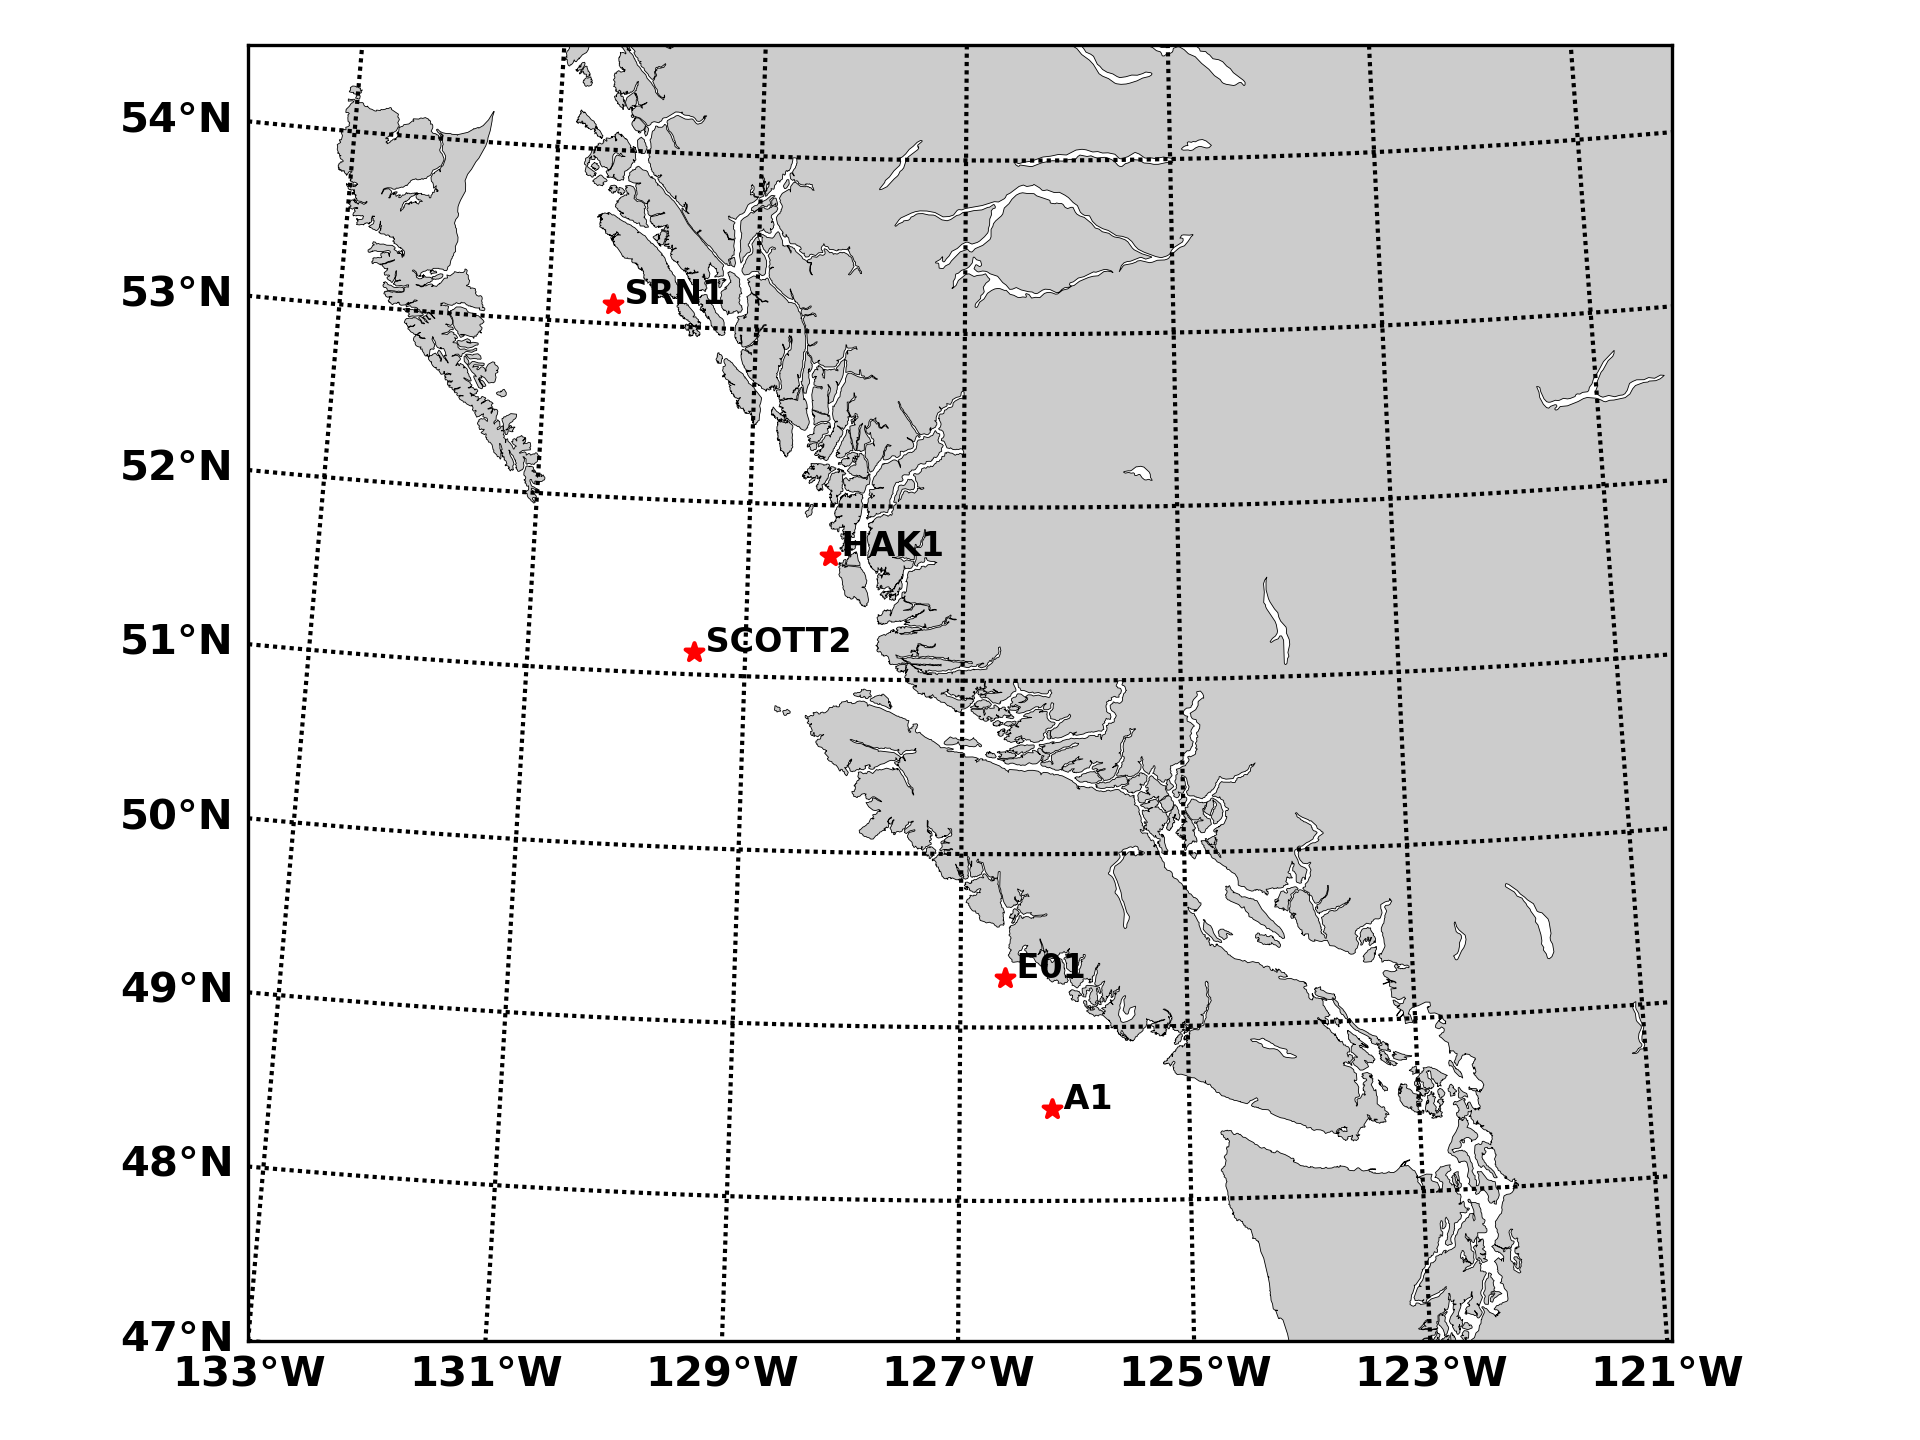
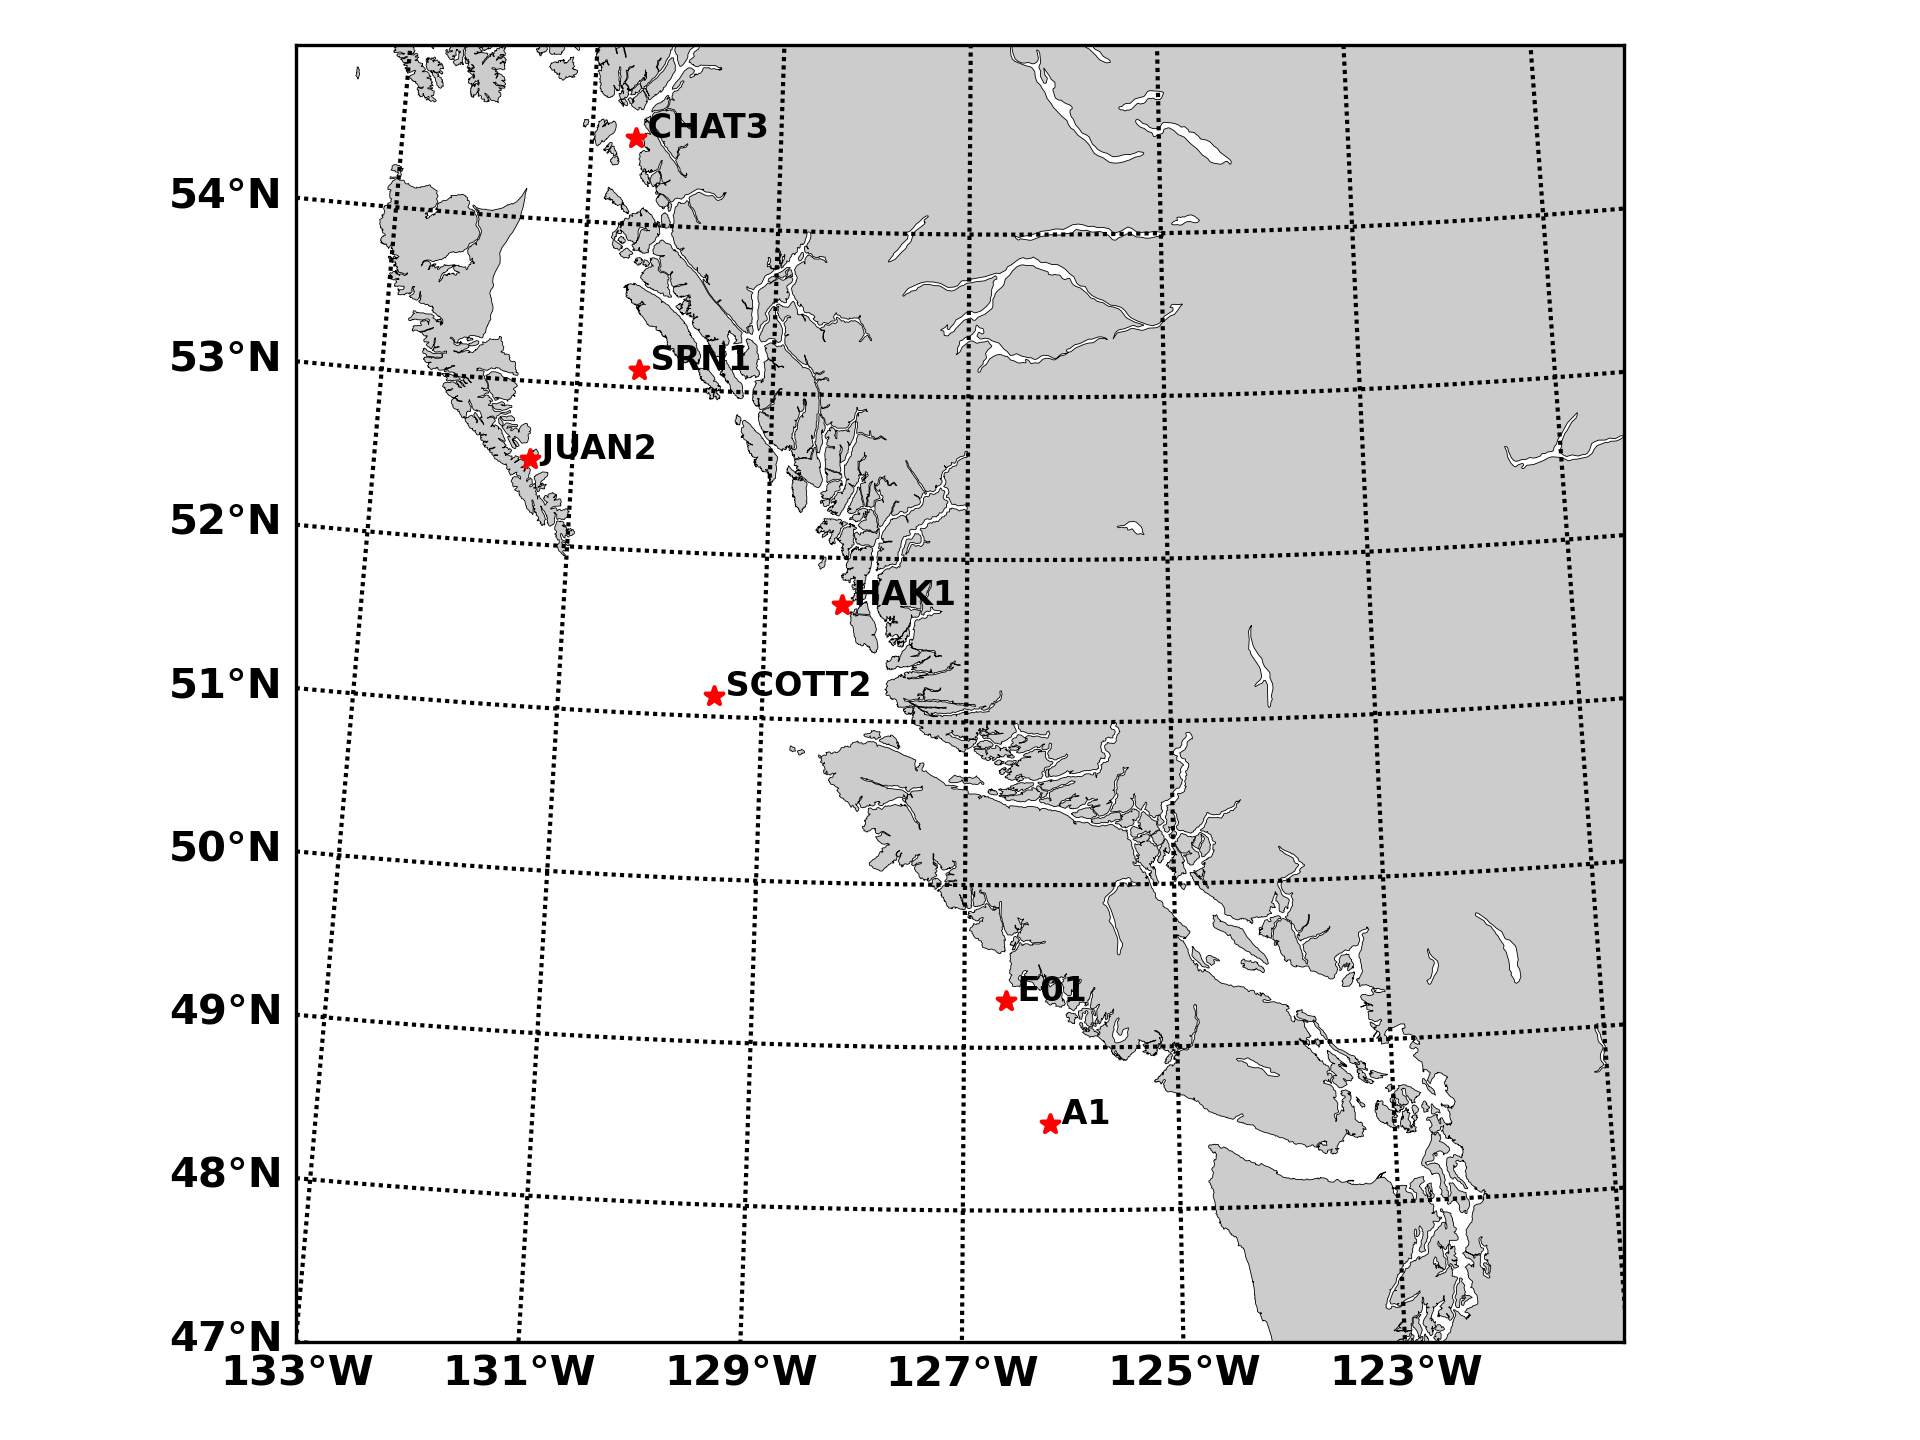
add chat3 and juan2 to mooring map

diff --git a/_site/scripts/map_mooring_locations.py b/_site/scripts/map_mooring_locations.py
@@ -17,7 +17,7 @@ coordinates_df = pd.read_csv(nominal_coordinates_file, index_col=[0])
 fig, ax = plt.subplots()
 
 # Set up basemap
-left_lon, bot_lat, right_lon, top_lat = [-133, 47, -120, 54.5]
+left_lon, bot_lat, right_lon, top_lat = [-133, 47, -120, 55]
 
 m = Basemap(llcrnrlon=left_lon, llcrnrlat=bot_lat,
             urcrnrlon=right_lon, urcrnrlat=top_lat,

diff --git a/scripts/map_mooring_locations.py b/scripts/map_mooring_locations.py
@@ -17,7 +17,7 @@ coordinates_df = pd.read_csv(nominal_coordinates_file, index_col=[0])
 fig, ax = plt.subplots()
 
 # Set up basemap
-left_lon, bot_lat, right_lon, top_lat = [-133, 47, -120, 54.5]
+left_lon, bot_lat, right_lon, top_lat = [-133, 47, -120, 55]
 
 m = Basemap(llcrnrlon=left_lon, llcrnrlat=bot_lat,
             urcrnrlon=right_lon, urcrnrlat=top_lat,
